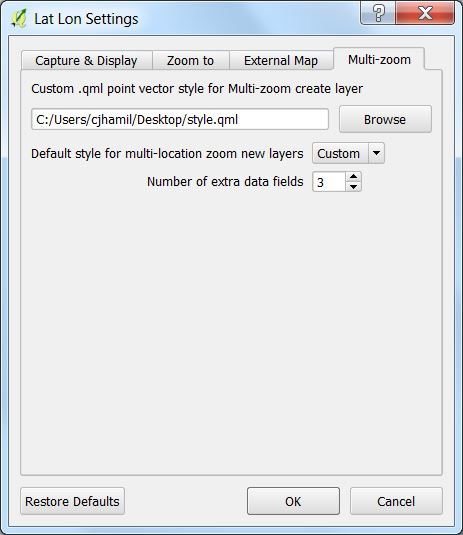
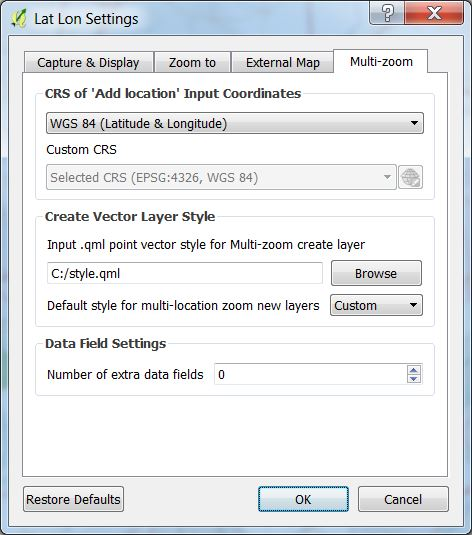
Documentation update

diff --git a/readme.md b/readme.md
@@ -1,10 +1,10 @@
 # Lat Lon Tools Plugin
 
-***Lat Lon Tools*** is a suite of tools that makes it easy to capture and zoom to coordinates and interact with other on-line mapping tools. It also adds MGRS support to QGIS. When working with **Google Earth**, **Google Maps** or other on-line mapping tools, coordinates are specified in the order of 'Latitude, Longitude'. By default ***Lat Lon Tools*** uses the standard Google Map format, but is very flexible and can use virtually any projection and coordinate format for input and output. The following tools are available in ***Lat Lon Tools***.
+***Lat Lon Tools*** makes it easy to capture and, zoom to coordinates, and interact with other on-line mapping tools. It adds MGRS support to QGIS. When working with **Google Earth**, **Google Maps** or other on-line mapping tools, coordinates are specified in the order of 'Latitude, Longitude'. By default ***Lat Lon Tools*** uses the standard Google Map format, but is very flexible and can use virtually any projection and coordinate format for input and output. The following tools are available in ***Lat Lon Tools***.
 
 <div style="text-align:center"><img src="doc/menu.jpg" alt="Lat Lon Tools Plugin"></div>
 
-* <img src="images/copyicon.png" alt="Copy coordinate"> ***Copy Latitude, Longitude*** - This captures coordinates onto the clipboard when the user clicks on the map using the standard Google Map format or a format specified in ***Settings***. If the user specifies a **Tab** separator, then the coordinate can be pasted into a spreadsheet in separate columns. While this tool is selected, the coordinate the mouse is over is shown in the lower left-hand corner either in **decimal degrees**, **DMS**, **MGRS**, or **WKT POINT** notation depending on the **Settings**. By default it uses the Geographic Latitude and Longitude to snapshot the coordinate, but this can be configured in **Settings** to use the project CRS or any other projection desired. See the **Settings** section for more details on the all the possibilities.
+* <img src="images/copyicon.png" alt="Copy coordinate"> ***Copy Latitude, Longitude*** - This captures coordinates onto the clipboard when the user clicks on the map, using the standard Google Map format or a format specified in ***Settings***. If the user specifies a **Tab** separator, then the coordinate can be pasted into a spreadsheet in separate columns. While this tool is selected, the coordinate the mouse is over is shown in the lower left-hand corner either in **decimal degrees**, **DMS**, **MGRS**, or **WKT POINT** notation depending on the **Settings**. By default it uses the Geographic Latitude and Longitude to snapshot the coordinate, but this can be configured in **Settings** to use the project CRS or any other projection desired. See the **Settings** section for more details on the all the possibilities.
   
 * <img src="images/zoomicon.png" alt="Zoom-to"> ***Zoom to Latitude, Longitude*** - With this tool, type or paste a coordinate into the text area and hit **Enter**. QGIS centers the map on the coordinate, highlights the location and creates a temporary marker at the location. The marker can be removed with the <img src="doc/cleartool.jpg" alt="Clear marker"> button. If the default WGS 84 (EPSG:4326 - latitude/longitude) coordinate system is specified, "Zoom to Latitude, Longitude" can interpret **decimal degrees**, **DMS**, or **WKT POINT** coordinates. If configure in **Settings** it can zoom to **MGRS** coordinates or coordinates formatted in the project CRS or any other projection. The ***Coordinate Order*** in ***Settings*** dictates whether the order is latitude followed by longitude (Y,X) or longitude followed by latitude (X,Y). By default the order is "Latitude, Longitude", the format used by Google Maps. Pressing the <img src="doc/zoomtool.jpg" alt="Zoom button"> also causes QGIS to zoom to that location.<br /><div style="text-align:center"><img src="doc/zoomto.jpg" alt="Zoom to Latitude, Longitude"></div><br />The following are acceptable coordinate formats when the ***Settings*** **Zoom to Coordinate Type** is set to ***WGS 84 (Latitude & Longitude)***. When the letters "N, S, E, W" are used, then the coordinate order is not important. These letters can be used before or after the coordinates. As long as the coordinate is understandable, punctuation, spaces, and &deg; ' " are optional. In these examples "d" represents degree digits, "m" minutes, and "s" seconds. Here are some example input formats:
 
@@ -50,7 +50,7 @@ By default ***Lat Lon Tools*** follows the **Google Map** convention making it p
 
 ![Capture and Display Settings](doc/settings.jpg)
 
-There are 4 capture projections that can be selected from the ***Coordinate Capture Projection*** drop down menu. They are as follows.
+There are 4 capture projections that can be selected from the ***CRS/Projection of Captured Coordinate*** drop down menu. They are as follows.
 
 * **WGS 84 (Latitude & Longitude)** - This captures the coordinates as a latitude and longitude regardless of what the project CRS is set to. This is the default setting.
 * **MGRS** - This captures the coordinates in the [MGRS](https://en.wikipedia.org/wiki/Military_grid_reference_system) format,
@@ -69,7 +69,7 @@ For ***Other CRS Number Format*** such as **Project CRS** or **Custom CRS** the 
 * **Normal Coordinate** - Decimal coordinate notation.
 * **WKT POINT**
 
-The order in which the coordinates are captured are determined by ***Coordinate Capture Order*** (not applicable to MGRS coordinates or WKT formatted coordinates) and are one of the following:
+The order in which the coordinates are captured are determined by ***Coordinate Order (Not applicable to MGRS and WKT)*** and are one of the following:
 
 * **Lat, Lon (Y,X) - Google Map Order**
 * **Lon, Lat (X,Y) Order**.
